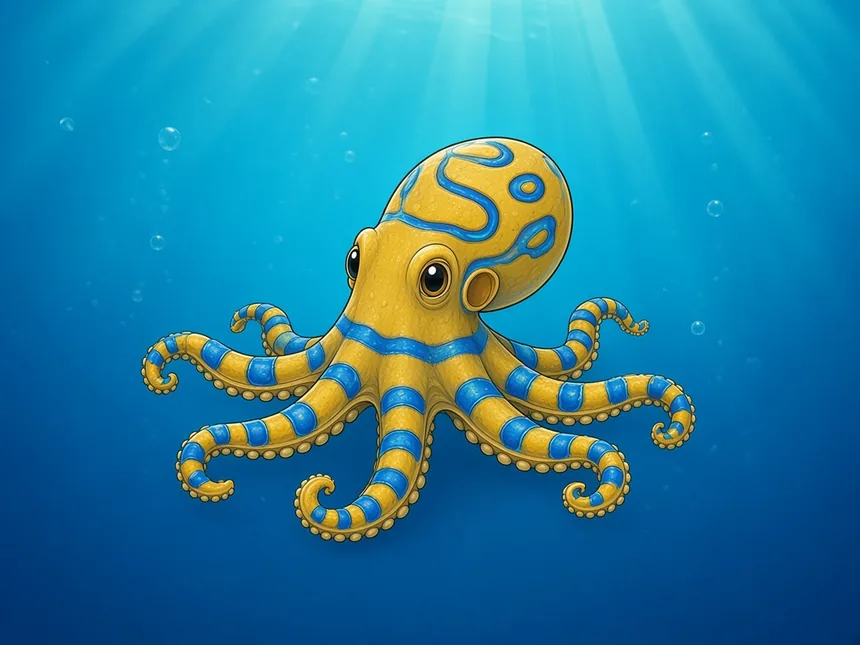
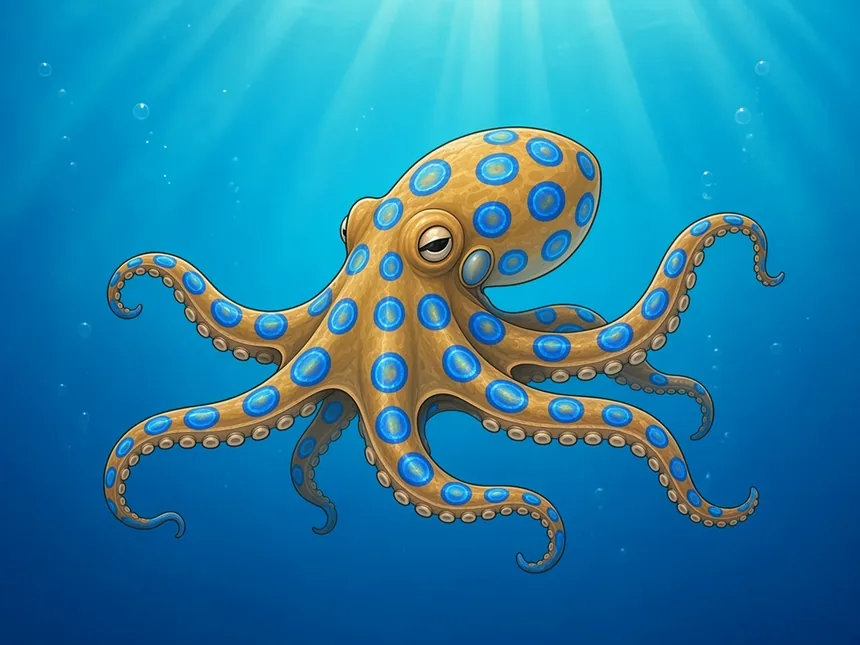
Fix marine art shark-anatomy bleed on non-shark creatures
Stop using shark cards as the style reference (that pulled shark tails,
dorsal fins, and body plans onto crabs, shrimp, cephalopods, and more).
Rewrite prompts with explicit species body plans and regenerate the
worst offenders: bobtail squid, man o' war, blue crab, cuttlefish,
moray, shrimp set, parrotfish, pufferfish, flying fish, giant squid,
stingray, orca, and dolphin.

diff --git a/marine/ART_PROMPTS.md b/marine/ART_PROMPTS.md
@@ -5,72 +5,78 @@ is the **shared style block** + a **per-species description**. Keep the style bl
 identical for every creature so the whole set stays consistent, then swap in the
 species line. Generate at **4:3**, then resize to ~860 px wide WebP for the game.
 
-Use a shark illustration from `sharks/art/` (e.g. `great-white.webp`) as a **style
-reference image** so the marine set matches the shark spotter art.
+**Important:** Do **not** use shark illustrations as the style reference for these.
+Shark references bleed shark tails, dorsal fins, and gill slits onto crabs, shrimp,
+eels, cephalopods, and other animals. Prefer a known-good marine card from this set
+(e.g. `clownfish.webp` or `blue-starfish.webp`) as the style reference instead.
 
 ## Shared style block (append to every prompt)
 
 > Semi-realistic children's educational encyclopedia illustration, full-body view
 > of the animal as the clear main subject, clean bold dark outlines, smooth soft
-> cel shading, anatomically accurate proportions and markings, centered composition,
+> cel shading, anatomically accurate for THIS species only, centered composition,
 > plain soft gradient teal-to-deep-blue underwater background with gentle god-ray
 > light beams and a few small bubbles, flat poster-like, no text, no watermark, no
-> border, no frame, cohesive style matching a set of marine life trading cards
-> that match the shark encyclopedia illustrations.
+> border, no frame, cohesive style matching a set of marine life trading cards.
+> CRITICAL ANATOMY RULE: this is NOT a shark unless the species is a shark. Do not
+> add a shark caudal fin, shark dorsal fin, shark pectoral fins, shark gill slits,
+> pointed shark snout, or torpedo shark body to any non-shark animal. Draw the
+> correct body plan for the named species.
 
-For swimming animals, prefer a side profile facing left. For bottom-dwellers
+For swimming fish, prefer a side profile facing left. For bottom-dwellers
 (crabs, lobsters, sea stars, urchins, clams), use a clear three-quarter or top-down
-view that shows the species' key features.
+view that shows the species' key features. For marine mammals, tails are horizontal
+flukes, never a vertical shark tail.
 
 ## Per-species prompts (file name → description)
 
-- **green-moray.webp** — A green moray eel, long serpentine body looping gently, yellowish-green slimy skin, blunt snout, open mouth showing sharp teeth, small round eye, facing left with its long body trailing behind.
-- **ribbon-eel.webp** — An adult male ribbon eel, slender bright blue body with a vivid yellow dorsal fin stripe and yellow leaf-like flared nostrils, open mouth, long ribbon-like body undulating, facing left.
-- **garden-eel.webp** — A spotted garden eel emerging vertically from sandy seabed, skinny pale body with dark spots, tiny head and eyes peeking up, lower body disappearing into a sand burrow, facing slightly left.
-- **snowflake-eel.webp** — A snowflake moray eel, white body covered in bold black snowflake-like blotches, blunt head, open mouth, serpentine body facing left.
-- **cleaner-shrimp.webp** — An Ambon cleaner shrimp, translucent body with bold red longitudinal stripes and white bands, long white antennae sweeping forward, walking on slender legs, facing left.
-- **peacock-mantis.webp** — A peacock mantis shrimp, vivid rainbow carapace of greens, blues, reds and oranges, large stalked eyes, folded smasher clubs held ready, short body facing left on sandy bottom.
-- **pistol-shrimp.webp** — A bigclaw snapping shrimp, tan translucent body, one enormously oversized snapping claw and one small claw, stalked eyes, facing left.
-- **banded-coral-shrimp.webp** — A banded coral shrimp, red-and-white banded body and legs, very long white antennae, large claws, facing left among a hint of reef rock.
-- **blue-starfish.webp** — A bright electric-blue Linckia sea star with five smooth rounded arms, top-down centered view on sandy reef floor.
-- **crown-of-thorns.webp** — A crown-of-thorns sea star with many arms covered in long sharp venomous spines, mottled grey-purple and green, top-down centered view.
-- **common-starfish.webp** — A common orange-brown five-armed sea star (Asterias), slightly rough texture, top-down centered view on sandy bottom.
-- **sunflower-star.webp** — A huge sunflower sea star with about twenty soft pinkish-orange arms radiating from a thick center, top-down view.
-- **blue-crab.webp** — An Atlantic blue crab, olive-green shell, bright blue claws, paddle-shaped rear swimming legs, facing left three-quarter view.
-- **hermit-crab.webp** — A common hermit crab partially inside a spiral snail shell, rusty orange legs and claws sticking out, one large claw forward, facing left.
-- **spider-crab.webp** — A portly spider crab with a triangular bumpy carapace and very long skinny spider-like legs, camouflaged with bits of seaweed, facing left.
-- **fiddler-crab.webp** — A male Atlantic sand fiddler crab, small square body, one huge purple-tinted claw and one tiny claw, stalked eyes, on sandy mud, facing left.
-- **ghost-crab.webp** — An Atlantic ghost crab, pale sandy-white body, tall stalked eyes, long legs built for running, on beach sand, facing left.
-- **horseshoe-crab.webp** — An Atlantic horseshoe crab, smooth brown horseshoe-shaped shell, long spiked tail spine, book gills hint underneath, walking left on sand.
-- **american-lobster.webp** — An American lobster, dark greenish-brown with orange joints, one massive crushing claw and one sharper cutting claw, long antennae, facing left.
-- **spiny-lobster.webp** — A Caribbean spiny lobster, reddish-brown spiny carapace, no large claws, very long thick spiny antennae forward, facing left.
-- **slipper-lobster.webp** — A flathead slipper lobster, flattened shovel-like head plates, sandy mottled brown body, no large claws, facing left on sand.
-- **common-octopus.webp** — A common octopus, mottled reddish-brown body, eight arms with visible suckers, large eye, swimming/crawling facing left.
-- **blue-ringed-octopus.webp** — A small blue-ringed octopus, yellow-tan body covered in iridescent bright blue rings, short arms, facing left.
-- **giant-pacific-octopus.webp** — A giant Pacific octopus, large reddish-orange body and arms with suckers, big eye, sprawling but centered, facing left.
-- **cuttlefish.webp** — A European common cuttlefish, wavy undulating side fins, W-shaped pupil, mottled brown and white skin, facing left.
-- **chambered-nautilus.webp** — An emperor chambered nautilus in side profile facing left, striped cream-and-brown spiral shell, many short tentacles, eye visible in the hood.
-- **giant-squid.webp** — A giant squid, huge elongated reddish body, large eye, two long feeding tentacles and eight arms, swimming facing left in deep blue water.
-- **bobtail-squid.webp** — A tiny Hawaiian bobtail squid, round chubby translucent body with short arms, large eyes, hovering just above sand facing left.
-- **clownfish.webp** — An ocellaris clownfish, bright orange with three white vertical bars edged in black, rounded fins, swimming facing left near soft anemone tentacles faintly suggested.
-- **blue-tang.webp** — A palette surgeonfish (blue tang), vivid royal-blue body, yellow tail, black palette-shaped marking, white spine near tail, swimming facing left.
+- **green-moray.webp** — A green moray eel ONLY: long thick serpentine eel body with continuous soft dorsal fin running along the back into a rounded finned tip, NO separate shark-style crescent caudal fin, yellowish-green slimy skin, blunt snout, open mouth with sharp teeth, small round eye, body looping gently facing left.
+- **ribbon-eel.webp** — An adult male ribbon eel ONLY: slender bright blue eel body with a vivid yellow dorsal fin ribbon and yellow leaf-like flared nostrils, open mouth, long ribbon-like undulating eel body tapering to a pointed finned tip, NO shark tail, facing left.
+- **garden-eel.webp** — A spotted garden eel ONLY emerging vertically from sandy seabed, skinny pale eel body with dark spots, tiny head and eyes peeking up, lower body in a sand burrow, NO shark fins or shark tail.
+- **snowflake-eel.webp** — A snowflake moray eel ONLY: white eel body covered in bold black snowflake blotches, blunt head, open mouth, serpentine eel body with continuous soft fin edge, NO shark caudal fin, facing left.
+- **cleaner-shrimp.webp** — An Ambon cleaner shrimp ONLY: crustacean with translucent body, bold red longitudinal stripes and white bands, long white antennae, slender walking legs, flattened shrimp tail fan (uropods) held horizontally behind the abdomen, NO shark fin, NO vertical shark tail.
+- **peacock-mantis.webp** — A peacock mantis shrimp ONLY: vivid rainbow crustacean carapace, large stalked eyes, folded smasher clubs, short segmented shrimp body ending in a flat horizontal tail fan, standing on sandy bottom facing left, NO shark fins or shark tail.
+- **pistol-shrimp.webp** — A bigclaw snapping shrimp ONLY: tan translucent shrimp crustacean, one enormously oversized snapping claw and one small claw, stalked eyes, segmented abdomen ending in a flat shrimp tail fan, NO shark fin, NO vertical shark tail, facing left.
+- **banded-coral-shrimp.webp** — A banded coral shrimp ONLY: red-and-white banded shrimp body and legs, very long white antennae, large claws, flat horizontal shrimp tail fan, among a hint of reef rock, NO shark fins or shark tail, facing left.
+- **blue-starfish.webp** — A bright electric-blue Linckia sea star with five smooth rounded arms, top-down centered view on sandy reef floor, no fins.
+- **crown-of-thorns.webp** — A crown-of-thorns sea star with many arms covered in long sharp venomous spines, mottled grey-purple and green, top-down centered view, no fins.
+- **common-starfish.webp** — A common orange-brown five-armed sea star (Asterias), slightly rough texture, top-down centered view on sandy bottom, no fins.
+- **sunflower-star.webp** — A huge sunflower sea star with about twenty soft pinkish-orange arms radiating from a thick center, top-down view, no fins.
+- **blue-crab.webp** — An Atlantic blue crab ONLY: wide hard crab carapace olive-green on top, bright blue claws, ten crab legs with paddle-shaped rear swimming legs, NO dorsal fin, NO shark tail, NO fish body, three-quarter view facing left on sand.
+- **hermit-crab.webp** — A common hermit crab partially inside a spiral snail shell, rusty orange crab legs and claws sticking out, one large claw forward, facing left, no fins.
+- **spider-crab.webp** — A portly spider crab with a triangular bumpy carapace and very long skinny spider-like legs, camouflaged with bits of seaweed, facing left, no fins.
+- **fiddler-crab.webp** — A male Atlantic sand fiddler crab, small square crab body, one huge purple-tinted claw and one tiny claw, stalked eyes, on sandy mud, facing left, no fins.
+- **ghost-crab.webp** — An Atlantic ghost crab, pale sandy-white crab body, tall stalked eyes, long running legs, on beach sand, facing left, no fins.
+- **horseshoe-crab.webp** — An Atlantic horseshoe crab, smooth brown horseshoe-shaped shell, long spiked tail spine (telson), walking left on sand, no shark fins.
+- **american-lobster.webp** — An American lobster, dark greenish-brown with orange joints, one massive crushing claw and one sharper cutting claw, long antennae, segmented lobster tail fan, facing left, no shark fins.
+- **spiny-lobster.webp** — A Caribbean spiny lobster, reddish-brown spiny carapace, no large claws, very long thick spiny antennae forward, segmented lobster tail, facing left, no shark fins.
+- **slipper-lobster.webp** — A flathead slipper lobster, flattened shovel-like head plates, sandy mottled brown body, no large claws, facing left on sand, no shark fins.
+- **common-octopus.webp** — A common octopus ONLY: soft rounded mantle, eight arms with visible suckers, large eye, no fins on the mantle, no shark tail, swimming/crawling facing left.
+- **blue-ringed-octopus.webp** — A small blue-ringed octopus ONLY: yellow-tan soft mantle covered in iridescent bright blue rings, short arms with suckers, smooth mantle with NO dorsal fin sticking up, facing left.
+- **giant-pacific-octopus.webp** — A giant Pacific octopus, large reddish-orange soft mantle and arms with suckers, big eye, sprawling but centered, no shark fins, facing left.
+- **cuttlefish.webp** — A European common cuttlefish ONLY: broad flattened mantle with a continuous soft undulating fin fringing both sides of the body (not a shark tail), short arms and two tentacles at the front, W-shaped pupil, mottled brown and white skin, facing left. NO vertical caudal fin, NO shark body.
+- **chambered-nautilus.webp** — An emperor chambered nautilus in side profile facing left, striped cream-and-brown spiral shell, many short tentacles, eye visible in the hood, no shark fins.
+- **giant-squid.webp** — A giant squid ONLY: huge elongated soft reddish mantle, large eye, two long feeding tentacles and eight arms with suckers, a pair of soft rounded triangular fins at the rear tip of the mantle (not a shark tail), swimming facing left. NO shark caudal fin, NO gill slits.
+- **bobtail-squid.webp** — A tiny Hawaiian bobtail squid ONLY: round chubby translucent soft body like a little dumpling, short stubby arms, large round eyes, small rounded side fins, hovering just above sand facing left. This is a tiny squid, NOT a shark, NO shark body, NO shark tail, NO dorsal fin.
+- **clownfish.webp** — An ocellaris clownfish, bright orange with three white vertical bars edged in black, rounded soft fins, swimming facing left near soft anemone tentacles faintly suggested.
+- **blue-tang.webp** — A palette surgeonfish (blue tang), vivid royal-blue oval fish body, yellow tail, black palette-shaped marking, white spine near tail, swimming facing left.
 - **lined-seahorse.webp** — A northern lined seahorse, upright orange-brown body with white lines, curly prehensile tail gripping a seagrass blade, facing left.
 - **leafy-seadragon.webp** — A leafy seadragon, elaborate green and yellow leaf-like appendages camouflaging the slender body, drifting facing left among kelp.
 - **lionfish.webp** — A red lionfish, dramatic fan-like striped spines and fins, reddish-brown and white zebra banding, swimming facing left.
-- **pufferfish.webp** — A white-spotted pufferfish, round pale body with dark spots, beak-like mouth, swimming facing left (not fully inflated).
-- **mandarinfish.webp** — A mandarinfish, psychedelic swirling blue, orange, and green patterns, small elongated body, large fins, facing left.
-- **parrotfish.webp** — A rainbow parrotfish, colorful green-blue-orange body, distinctive beak-like fused teeth, swimming facing left.
-- **emperor-angelfish.webp** — An adult emperor angelfish, bold horizontal blue and yellow stripes, dark mask through the eye, yellow tail, swimming facing left.
-- **flying-fish.webp** — A cosmopolitan flyingfish, sleek silvery-blue body, enormously enlarged wing-like pectoral fins spread for gliding, facing left near the surface.
-- **manta-ray.webp** — An oceanic manta ray, huge black-and-white wing-like pectoral fins, cephalic fins rolled like horns, swimming gracefully facing left from a slight underside angle.
-- **stingray.webp** — A southern stingray, diamond-shaped sandy-brown disc, long thin whip tail with a spine, gliding just above sand facing left.
+- **pufferfish.webp** — A white-spotted pufferfish ONLY: round boxy pale body with dark spots, beak-like mouth, small rounded paddle-like caudal fin (NOT a shark crescent tail), soft rounded pectoral fins, swimming facing left, not fully inflated.
+- **mandarinfish.webp** — A mandarinfish, psychedelic swirling blue, orange, and green patterns, small elongated body, large rounded fins, facing left.
+- **parrotfish.webp** — A rainbow parrotfish ONLY: deep oval colorful reef-fish body (green-blue-orange), distinctive beak-like fused teeth, large soft rounded or slightly truncate fish tail (NOT a shark crescent tail), swimming facing left. NOT a shark body.
+- **emperor-angelfish.webp** — An adult emperor angelfish, bold horizontal blue and yellow stripes, dark mask through the eye, yellow rounded tail, swimming facing left.
+- **flying-fish.webp** — A cosmopolitan flyingfish ONLY: silvery-blue slender bony fish (NOT a shark), enormously enlarged wing-like pectoral fins spread for gliding, normal fish head without shark gill-slit look emphasized as shark, forked fish tail with lower lobe often longer, facing left near the surface. NO shark dorsal fin shape, NO shark snout.
+- **manta-ray.webp** — An oceanic manta ray, huge black-and-white wing-like pectoral fins, cephalic fins rolled like horns, swimming gracefully facing left from a slight underside angle, whip-free ray body (no shark caudal fin).
+- **stingray.webp** — A southern stingray ONLY: flat diamond-shaped sandy-brown disc, long thin whip-like tail with a spine, smooth disc edges, gliding just above sand facing left. NO upright shark dorsal fins on the disc, NO shark caudal fin.
 - **green-sea-turtle.webp** — A green sea turtle, smooth olive-brown shell, paddle flippers, gentle face, swimming facing left.
 - **leatherback.webp** — A leatherback sea turtle, dark rubbery shell with pale longitudinal ridges, huge front flippers, swimming facing left.
-- **bottlenose-dolphin.webp** — A common bottlenose dolphin, smooth grey body, curved dorsal fin, bottle-shaped snout, leaping/swimming facing left.
-- **orca.webp** — An orca (killer whale), bold black-and-white pattern, tall dorsal fin, white eye patch, swimming facing left.
+- **bottlenose-dolphin.webp** — A common bottlenose dolphin from a three-quarter TOP / bird's-eye view swimming left: smooth grey body, curved dorsal fin as a centerline ridge, bottle-shaped snout, pectoral flippers out to the sides, and clearly HORIZONTAL crescent flukes spanning left-right at the rear (never a vertical shark tail). Top-down angle is required so the flukes read as sideways whale/dolphin flukes.
+- **orca.webp** — An orca (killer whale) from a three-quarter TOP / bird's-eye view swimming left: bold black-and-white pattern, tall dorsal fin as a centerline ridge, white eye patch, blunt rounded snout, pectoral flippers out to the sides, and clearly HORIZONTAL crescent flukes spanning left-right at the rear (never a vertical shark caudal fin). Top-down angle is required so the flukes read as sideways whale flukes.
 - **sea-otter.webp** — A sea otter floating on its back facing left, thick brown fur, holding a shell on its belly, whiskered face, calm surface water.
-- **moon-jelly.webp** — A common moon jelly, translucent pale bell with four horseshoe-shaped markings in the center, short tentacles trailing, drifting centered.
-- **lions-mane.webp** — A lion's mane jellyfish, large reddish-orange bell with thick cascading tentacles and oral arms like a mane, drifting centered.
-- **portuguese-man-o-war.webp** — A Portuguese man o' war, translucent blue-pink sail-like float on the surface, long purple-blue tentacles trailing below into the water, side view.
+- **moon-jelly.webp** — A common moon jelly, translucent pale bell with four horseshoe-shaped markings in the center, short tentacles trailing, drifting centered, no fins.
+- **lions-mane.webp** — A lion's mane jellyfish, large reddish-orange bell with thick cascading tentacles and oral arms like a mane, drifting centered, no fins.
+- **portuguese-man-o-war.webp** — A Portuguese man o' war ONLY: translucent blue-pink balloon-like float/sail sitting on the water surface, long purple-blue stinging tentacles trailing down into the water below, side view. This is a floating colonial siphonophore, NOT a fish and NOT a shark — no shark body, no shark fins, no shark tail.
 - **giant-clam.webp** — A gigas giant clam, massive fluted shell slightly open showing colorful blue-green iridescent mantle, resting on reef sand, three-quarter view.
 - **purple-urchin.webp** — A Pacific purple sea urchin, round body densely covered in long violet-purple spines, centered on rocky bottom.
